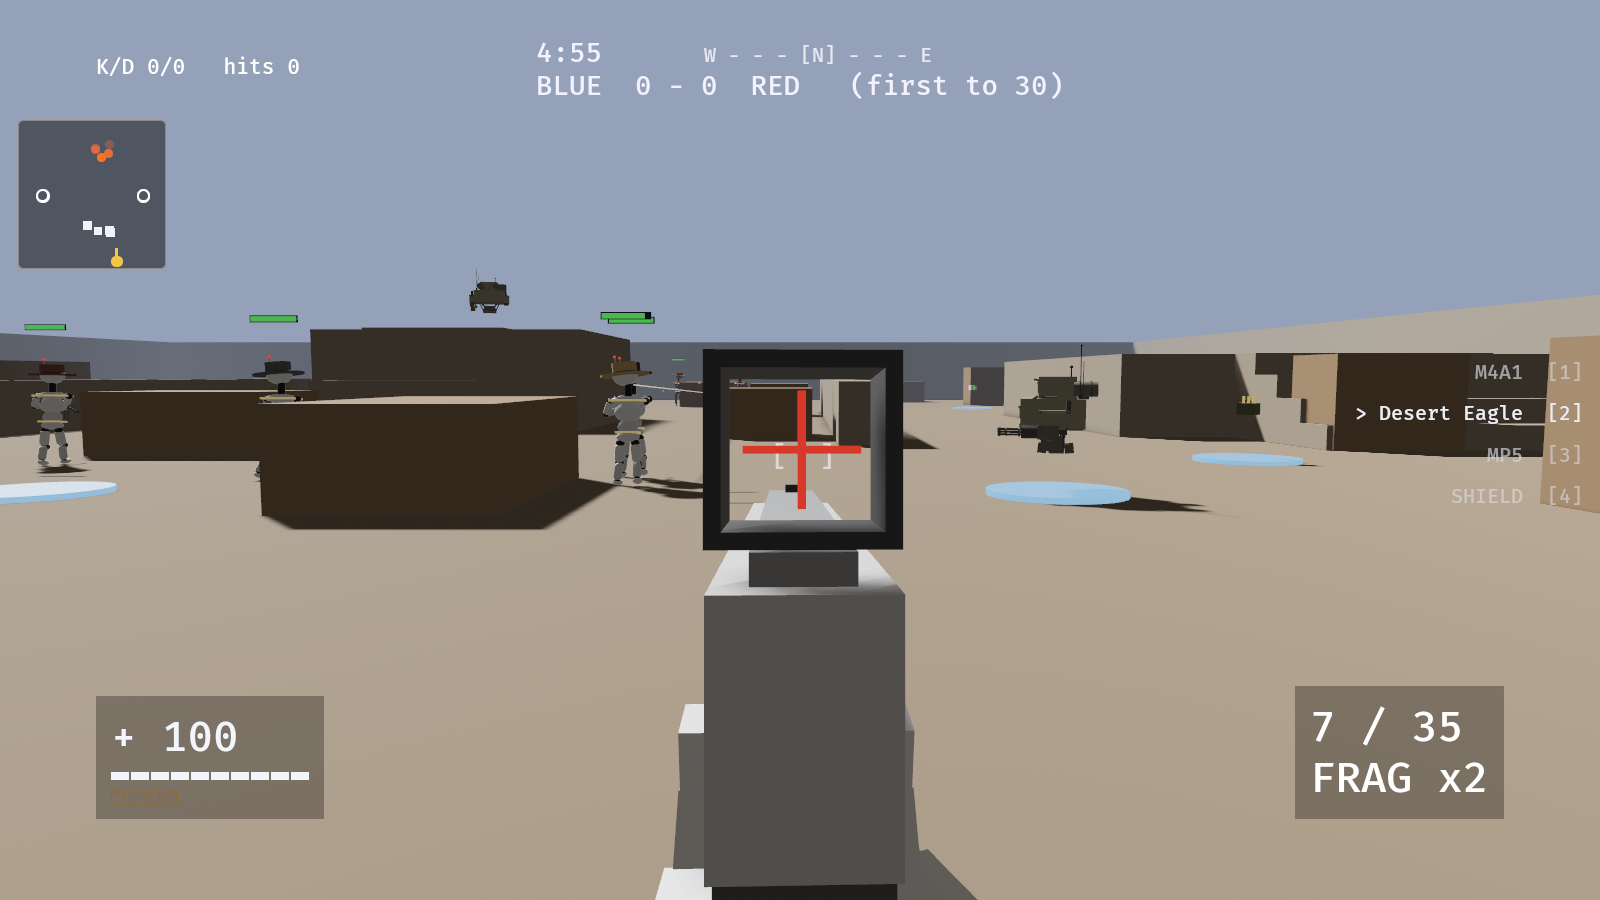
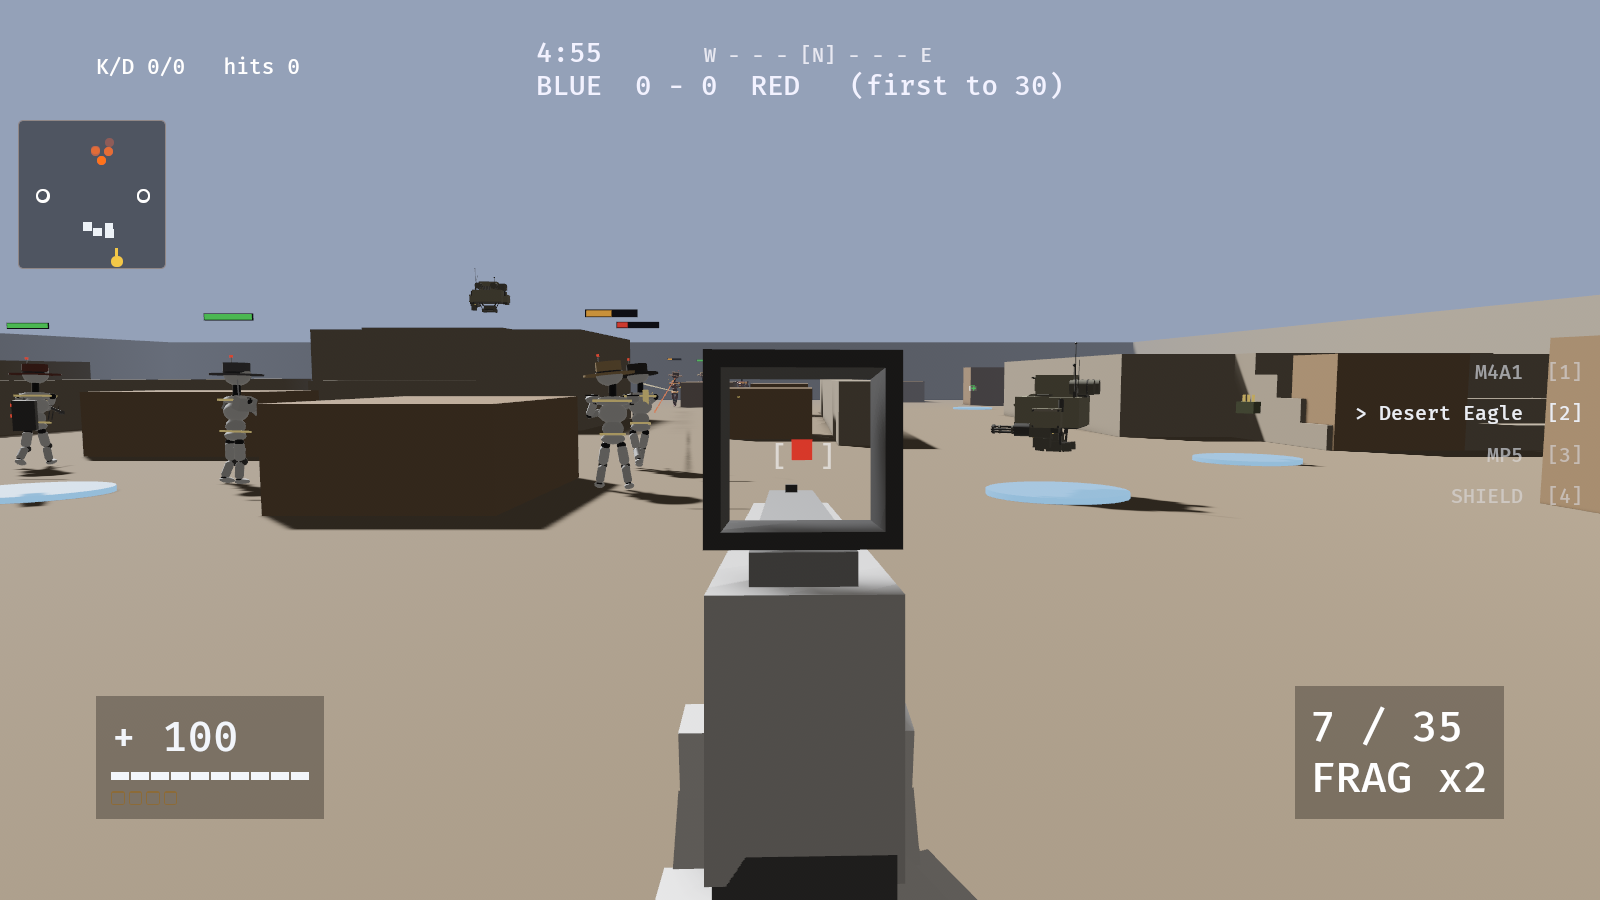
Sights become a dot, the aimed gun stops moving, and taps go straight
THE RETICLE. The cross is gone. Its two arms reached most of the way
across the window, so the thing you aimed WITH was also the thing
covering what you aimed AT. One small emissive dot occludes almost
nothing, which is what a 1x optic actually projects.

AIMED, THE WEAPON DOES NOT MOVE. Not "moves less" - does not move.
Focus is the stance you take to make a precise shot, and a sight picture
that jumps is one you have to re-acquire between every round, which is
the opposite of what aiming is for. The recoil still has to be visible
or the shot has no weight, so it moved to the one place that costs no
readability: the DOT floats inside the glass while the housing stays
still. Hip fire keeps the full weapon kick, which is where a gun bucking
is the point. The drift is bounded well inside the aperture so the dot
can never slide behind the frame, and a test pins that.

TAPS GO STRAIGHT. The old "first shots suppressed" ramp only dropped the
FIRST round to 0.75 and was at full strength by the fourth - not a free
window, a rounding error. `spray_ramp` gives three rounds that leave
essentially straight, then climbs to a settled pattern trimmed under the
raw table so a spray stays fightable. The punch, the bloom, and the
camera's own pitch kick all read that one function, so "the first three
go straight" is one fact with one implementation instead of three
numbers free to drift apart.

Two test regressions, both real:
[…]

diff --git a/engine/crates/jk_tdm/src/main.rs b/engine/crates/jk_tdm/src/main.rs
@@ -1728,6 +1728,15 @@ struct VmRig {
 #[derive(Component)]
 struct AdsDetail;
 
+/// The illuminated dot inside a 1x optic. Carries its own rest position
+/// because recoil FLOATS it about that point instead of kicking the
+/// whole weapon - so the drift has to be applied as an offset from a
+/// remembered origin, not accumulated onto wherever it currently is.
+#[derive(Component)]
+struct ReticleDot {
+    rest: Vec3,
+}
+
 /// The predicted-arc preview for bow/spear aiming (§4.2 Brief II):
 /// arc-length-spaced dots, a landing ring + drop-line, and a ±spread
 /// cone of two fainter arcs that widens as stability degrades.
@@ -2479,6 +2488,17 @@ const OPTIC_HALF: f32 = 0.023;
 /// Frame bar thickness, and the housing's fore-aft depth.
 const OPTIC_FRAME: f32 = 0.005;
 const OPTIC_DEPTH: f32 = 0.032;
+/// Side of the emissive dot. Small on purpose: the aiming mark must not
+/// cover the thing being aimed at, which is exactly how the old cross
+/// failed.
+const OPTIC_DOT_M: f32 = 0.0062;
+/// §owner: how far the dot floats inside its window at full recoil.
+///
+/// This is the whole trick behind "the gun stays still and the DOT
+/// moves". Bounded well inside `OPTIC_HALF` so the dot can never leave
+/// the glass - a reticle that slid behind the housing would read as a
+/// rendering bug, not as recoil.
+const RETICLE_DRIFT_M: f32 = 0.0075;
 
 /// §owner: the 1x RED DOT every firearm carries.
 ///
@@ -2519,12 +2539,24 @@ fn push_red_dot(parts: &mut Vec<WPart>, y: f32, z: f32, mount_top: f32) {
             (0.016, gap, OPTIC_DEPTH * 0.7),
         ));
     }
-    // THE CROSS - two thin emissive bars, dead centre. Kept clear of the
-    // frame (x1.55, not x2) so the arms float rather than touch, which
-    // is what makes it read as projected light instead of painted-on.
-    let arm = OPTIC_HALF * 1.55;
-    parts.push(wp(false, Tone::Reticle, (0.0, y, z), 0.0, (arm, 0.0024, 0.004)));
-    parts.push(wp(false, Tone::Reticle, (0.0, y, z), 0.0, (0.0024, arm, 0.004)));
+    // THE DOT - one small emissive square, dead centre.
+    //
+    // §owner: this was a CROSS of two long bars and it read badly - the
+    // arms reached most of the way across the window, so the thing you
+    // were supposed to aim WITH was also the thing covering what you
+    // were aiming AT. A dot occludes almost nothing and is what a 1x
+    // optic actually projects.
+    //
+    // It is spawned tagged rather than baked in with the housing,
+    // because the dot MOVES: recoil floats it inside the window while
+    // the gun body stays still (see `RETICLE_DRIFT_M` / `fp_viewmodel`).
+    parts.push(wp(
+        false,
+        Tone::Reticle,
+        (0.0, y, z),
+        0.0,
+        (OPTIC_DOT_M, OPTIC_DOT_M, 0.004),
+    ));
 }
 
 /// §1.3: hand placements per weapon - (position, yaw, curl, mirrored) in
@@ -5398,6 +5430,11 @@ fn spawn_weapon_model(
         if p.detail {
             // aiming-only greebles (§5: weapon detail steps up on ADS)
             e.insert((Visibility::Hidden, AdsDetail));
+        }
+        if p.tone == Tone::Reticle {
+            // the dot is driven per-frame, so it needs to be findable
+            // and it needs its rest pose remembered
+            e.insert(ReticleDot { rest: p.pos });
         }
         e.set_parent(root);
     }
@@ -9210,8 +9247,22 @@ fn input_and_step(
             } else {
                 1.0
             };
-            cam.pitch =
-                recoil_kicked_pitch(cam.pitch, kick * scoped_scale, p.bloom, brace);
+            // §owner: the aim only starts climbing once the burst has
+            // earned it. Same `spray_ramp` the sim's punch and bloom
+            // read, so tapping three rounds walks the crosshair
+            // essentially nowhere and holding the trigger does.
+            //
+            // `spray_i` has ALREADY been advanced by the shot being
+            // reacted to here, so step back one to score the round that
+            // actually fired rather than the next one.
+            let fired_i = (p.spray_i.max(1.0) as usize).saturating_sub(1);
+            let ramp = sim::spray_ramp(fired_i);
+            cam.pitch = recoil_kicked_pitch(
+                cam.pitch,
+                kick * scoped_scale * ramp,
+                p.bloom * ramp,
+                brace,
+            );
             cam.recoil = (cam.recoil + 0.6).min(1.0);
         }
     }
@@ -11589,8 +11640,21 @@ fn fp_viewmodel(
     mut motion: EventReader<MouseMotion>,
     mut st: Local<VmState>,
     keys: Res<ButtonInput<KeyCode>>,
-    mut q: Query<(&mut Transform, &mut Visibility), (Without<MainCam>, Without<TriggerFinger>)>,
-    mut trig: Query<(&mut Transform, &TriggerFinger), Without<MainCam>>,
+    mut q: Query<
+        (&mut Transform, &mut Visibility),
+        (Without<MainCam>, Without<TriggerFinger>, Without<ReticleDot>),
+    >,
+    mut trig: Query<(&mut Transform, &TriggerFinger), (Without<MainCam>, Without<ReticleDot>)>,
+    // Every &mut Transform query here must be provably disjoint from
+    // every other or Bevy panics B0001 at startup - and "no entity would
+    // ever have both" is not proof, it has to be in the FILTER. Hence
+    // Without<TriggerFinger> here and Without<ReticleDot> on the other
+    // two, rather than relying on the archetypes happening not to
+    // overlap.
+    mut dots: Query<
+        (&mut Transform, &ReticleDot),
+        (Without<MainCam>, Without<TriggerFinger>),
+    >,
 ) {
     let dt = time.delta_secs().max(1e-5);
     let p = &game.sim.fighters[game.sim.player];
@@ -11797,17 +11861,36 @@ fn fp_viewmodel(
     } else {
         (p.fire_cd, spec.fire_period)
     };
-    let kick_vm = if (p.armed() || p.in_mech()) && cycle_cd > 0.0 {
-        ((VM_KICK_RETURN_S - (cycle_period - cycle_cd)) / VM_KICK_RETURN_S)
-            .clamp(0.0, 1.0)
-            // §owner: while focused, the gun visibly kicks at a QUARTER
-            // strength - "guns stay stable while aiming". Cosmetic only:
-            // the sim's punch (which decides where bullets go) is not
-            // read from here.
-            * (1.0 - 0.75 * ease_out(cam_ctl.ads_t))
+    // How far through this shot's kick-return window we are, 1 at the
+    // instant of firing and decaying to 0. Shared by the hip-fire weapon
+    // kick and the aimed reticle drift below - one shot, one curve.
+    let kick_phase = if (p.armed() || p.in_mech()) && cycle_cd > 0.0 {
+        ((VM_KICK_RETURN_S - (cycle_period - cycle_cd)) / VM_KICK_RETURN_S).clamp(0.0, 1.0)
     } else {
         0.0
     };
+    // §owner: AIMED, THE WEAPON DOES NOT MOVE. Not "moves less" - does
+    // not move. Focus is the stance you take to make a precise shot, and
+    // a sight picture that jumps is one you have to re-acquire between
+    // every round, which is the opposite of what aiming is for.
+    //
+    // The recoil still has to be VISIBLE or the shot has no weight, so
+    // it moves to the one place that costs no readability: the dot
+    // floats inside the glass (`reticle_drift`), the housing does not.
+    // Hip fire keeps the full weapon kick - that is where the gun
+    // bucking is the point.
+    let aim_e = ease_out(cam_ctl.ads_t);
+    let kick_vm = kick_phase * (1.0 - aim_e);
+    // The aimed half of that trade: the dot rides the same shot curve
+    // the weapon no longer does. Up and slightly right, because that is
+    // the direction the sim's own punch throws the bullet - the mark
+    // moving WITH the shot is a readout, not decoration.
+    {
+        let drift = kick_phase * aim_e * RETICLE_DRIFT_M;
+        for (mut t, dot) in &mut dots {
+            t.translation = dot.rest + Vec3::new(drift * 0.35, drift, 0.0);
+        }
+    }
     // §2.4: the inspect pose (T) - image-3 angled presentation with a
     // slow idle drift; any combat input cancels instantly
     if keys.just_pressed(KeyCode::KeyT) {
@@ -15565,19 +15648,20 @@ mod band_tests {
         push_red_dot(&mut parts, 0.10, 0.0, 0.06);
         let reticles: Vec<&WPart> =
             parts.iter().filter(|p| p.tone == Tone::Reticle).collect();
-        assert_eq!(reticles.len(), 2, "the cross is two bars");
-        for r in &reticles {
-            let half_x = r.size.x * 0.5;
-            let half_y = r.size.y * 0.5;
-            assert!(
-                half_x < OPTIC_HALF && half_y < OPTIC_HALF,
-                "a cross arm reaches the frame: {half_x} / {half_y} vs                  the {OPTIC_HALF} aperture"
-            );
-            assert!(
-                (r.pos.y - 0.10).abs() < 1e-6 && r.pos.x.abs() < 1e-6,
-                "the cross must be centred on the sight line"
-            );
-        }
+        assert_eq!(reticles.len(), 1, "the reticle is ONE dot");
+        let dot = reticles[0];
+        assert!(
+            (dot.pos.y - 0.10).abs() < 1e-6 && dot.pos.x.abs() < 1e-6,
+            "the dot must be centred on the sight line"
+        );
+        // and it must stay inside the glass even at FULL recoil drift -
+        // a dot that slid behind the housing would read as a rendering
+        // bug rather than as recoil
+        let farthest = dot.size.y * 0.5 + RETICLE_DRIFT_M;
+        assert!(
+            farthest < OPTIC_HALF,
+            "the dot leaves the window at full drift: {farthest} vs the              {OPTIC_HALF} aperture"
+        );
         // every frame bar clears the aperture
         for b in parts.iter().filter(|p| p.tone == Tone::Black) {
             let dx = b.pos.x.abs() - b.size.x * 0.5;

diff --git a/engine/crates/jk_tdm/src/sim.rs b/engine/crates/jk_tdm/src/sim.rs
@@ -2331,6 +2331,34 @@ pub const MOVE_INACC_FULL: f32 = 0.95;
 /// velocity). Generated by a per-weapon FIXED seed: the same pattern
 /// for every player in every match, learnable, and replay-exact. Pure —
 /// O(i) per call with i ≤ 64, cheap at any fire rate.
+/// §owner: how many rounds at the START of a burst leave essentially
+/// STRAIGHT. Tap-firing an automatic should behave like a semi-auto -
+/// the first rounds go where the sight says, and the pattern is
+/// something you earn your way into by holding the trigger.
+pub const SPRAY_FREE_SHOTS: usize = 3;
+/// Rounds taken to climb from the free window to the full pattern.
+pub const SPRAY_RAMP_SHOTS: f32 = 7.0;
+/// Trim on the SETTLED pattern. The climb has to stay fightable - a
+/// spray you cannot pull down is a spray nobody uses, so the top end is
+/// deliberately under the raw table.
+pub const SPRAY_CLIMB_TRIM: f32 = 0.80;
+
+/// Fraction of the full spray punch a given round in the burst carries.
+///
+/// Pure and shared: the punch magnitude, the bloom growth, and the
+/// camera's own pitch kick all read THIS, so "the first three go
+/// straight" is one fact with one implementation rather than three
+/// numbers that drift apart.
+pub fn spray_ramp(i: usize) -> f32 {
+    if i < SPRAY_FREE_SHOTS {
+        // not zero: a rifle that recoiled exactly nothing for three
+        // rounds would feel like it was not firing at all
+        return 0.08;
+    }
+    let t = ((i - SPRAY_FREE_SHOTS) as f32 / SPRAY_RAMP_SHOTS).clamp(0.0, 1.0);
+    (0.34 + 0.66 * t) * SPRAY_CLIMB_TRIM
+}
+
 pub fn spray_entry(kind: GunKind, i: usize) -> (f32, f32) {
     let slot = match kind {
         GunKind::Fists => 0u64,
@@ -5970,7 +5998,11 @@ impl TdmSim {
             if f.walking {
                 kick *= WALK_RECOIL_DAMP;
             }
-            f.bloom = (f.bloom + kick).min(0.05);
+            // the cone opens on the same curve the climb does, or the
+            // first rounds would leave straight but land wide - "goes
+            // straight" has to mean both
+            let burst_i = f.spray_i.max(0.0) as usize;
+            f.bloom = (f.bloom + kick * spray_ramp(burst_i)).min(0.05);
             // §2 (Brief VI): advance the deterministic spray — the
             // per-weapon table feeds the punch VELOCITY (first shots
             // suppressed 0.75 → 1.0, consecutive entries lerped 0.55)
@@ -5992,14 +6024,14 @@ impl TdmSim {
                 } else {
                     1.0
                 };
+                // The old ramp here only dropped the FIRST round to 0.75
+                // and was at full strength by the fourth - which is not a
+                // free window, it is a rounding error. `spray_ramp` is
+                // the real one.
                 let mag = (m0 + (m1 - m0) * SPRAY_LERP)
                     * scoped_scale
                     * brace_scale
-                    * if i0 < 4 {
-                        0.75 + i0 as f32 * (0.25 / 3.0)
-                    } else {
-                        1.0
-                    };
+                    * spray_ramp(i0);
                 f.punch_vel[0] += ang.cos() * mag; // pitch, up
                 f.punch_vel[1] += ang.sin() * mag; // yaw, right
                 f.spray_i += 1.0;
@@ -9360,6 +9392,77 @@ mod tests {
         assert_eq!(a, b, "class assignment must not vary between builds");
     }
 
+    /// §owner: "the first 1-2-3 shots go straight, like a normal gun -
+    /// after that the spray starts to move."
+    ///
+    /// Measures the real punch an AK accumulates through the real fire
+    /// path, not the table in isolation: a tap of three must leave the
+    /// aim essentially where it started, a held burst must climb, and
+    /// the climb has to stay fightable rather than unpullable.
+    #[test]
+    fn a_tap_leaves_straight_and_only_a_held_burst_climbs() {
+        let burst = |rounds: usize| -> f32 {
+            let mut s = range(0x5A11);
+            s.fighters[0].gun = GunKind::Ak47;
+            s.fighters[0].inventory[0] = GunKind::Ak47;
+            s.fighters[0].ammo = 40;
+            s.fighters[0].reserve = 0;
+            // the subject is measuring its OWN recoil, not surviving a
+            // firefight
+            s.fighters[1].ammo = 0;
+            s.fighters[1].reserve = 0;
+            s.fighters[1].slot_ammo = [(0, 0); 3];
+            let mut fired = 0;
+            // PEAK climb during the burst, not the value left afterwards:
+            // punch decays every tick, so reading it at the end of the
+            // window measures the decay constant rather than the recoil.
+            let mut peak = 0.0_f32;
+            for _ in 0..(SIM_HZ as usize * 4) {
+                if fired < rounds && s.try_fire(0, [0.0, 0.0, 1.0], false) {
+                    fired += 1;
+                }
+                s.step(PlayerCmd { aim: [0.0, 0.0, 1.0], ..Default::default() });
+                peak = peak.max(s.fighters[0].punch[0].abs());
+            }
+            assert_eq!(fired, rounds, "the burst must complete");
+            peak
+        };
+
+        let tap = burst(SPRAY_FREE_SHOTS);
+        let held = burst(20);
+        assert!(
+            held > tap * 4.0,
+            "a held burst must climb far past a tap: tap {tap}, held {held}"
+        );
+
+        // the free window is a real window, not a rounding error - the
+        // old ramp only dropped the FIRST round to 0.75 and was at full
+        // strength by the fourth, which is what this pins against
+        for i in 0..SPRAY_FREE_SHOTS {
+            assert!(
+                spray_ramp(i) < 0.15,
+                "round {i} is inside the free window and must leave straight"
+            );
+        }
+        assert!(
+            spray_ramp(SPRAY_FREE_SHOTS) > spray_ramp(SPRAY_FREE_SHOTS - 1) * 2.0,
+            "the pattern must actually switch on once the window closes"
+        );
+        // and it must remain fightable: a settled spray that exceeded the
+        // raw table would be unpullable
+        assert!(
+            spray_ramp(64) <= SPRAY_CLIMB_TRIM + 1e-6,
+            "the settled pattern must stay under the raw table"
+        );
+        // monotonic - the climb never eases off mid-burst
+        for i in 1..24 {
+            assert!(
+                spray_ramp(i) >= spray_ramp(i - 1) - 1e-6,
+                "the ramp must never go backwards at round {i}"
+            );
+        }
+    }
+
     /// Climb checklist test 1+2: grip drains under hold, recovers under
     /// release - ASYMMETRICALLY, per [S-02] - and zero grip detaches
     /// involuntarily.
@@ -10524,6 +10627,14 @@ mod tests {
             s.fighters[0].inventory[0] = GunKind::Ak47;
             s.fighters[0].ammo = 40;
             s.fighters[0].reserve = 0;
+            // This measures a SPRAY, so the subject has to survive long
+            // enough to finish one. The live enemy is disarmed rather
+            // than the assertion loosened: `spray_ramp` made everyone -
+            // bots included - straighter over the first rounds, and a
+            // sharper bot was killing the shooter around round 29.
+            s.fighters[1].ammo = 0;
+            s.fighters[1].reserve = 0;
+            s.fighters[1].slot_ammo = [(0, 0); 3];
             let mut shots = 0;
             for _ in 0..(SIM_HZ as usize * 6) {
                 if shots < 30 && s.try_fire(0, [0.0, 0.0, 1.0], false) {
